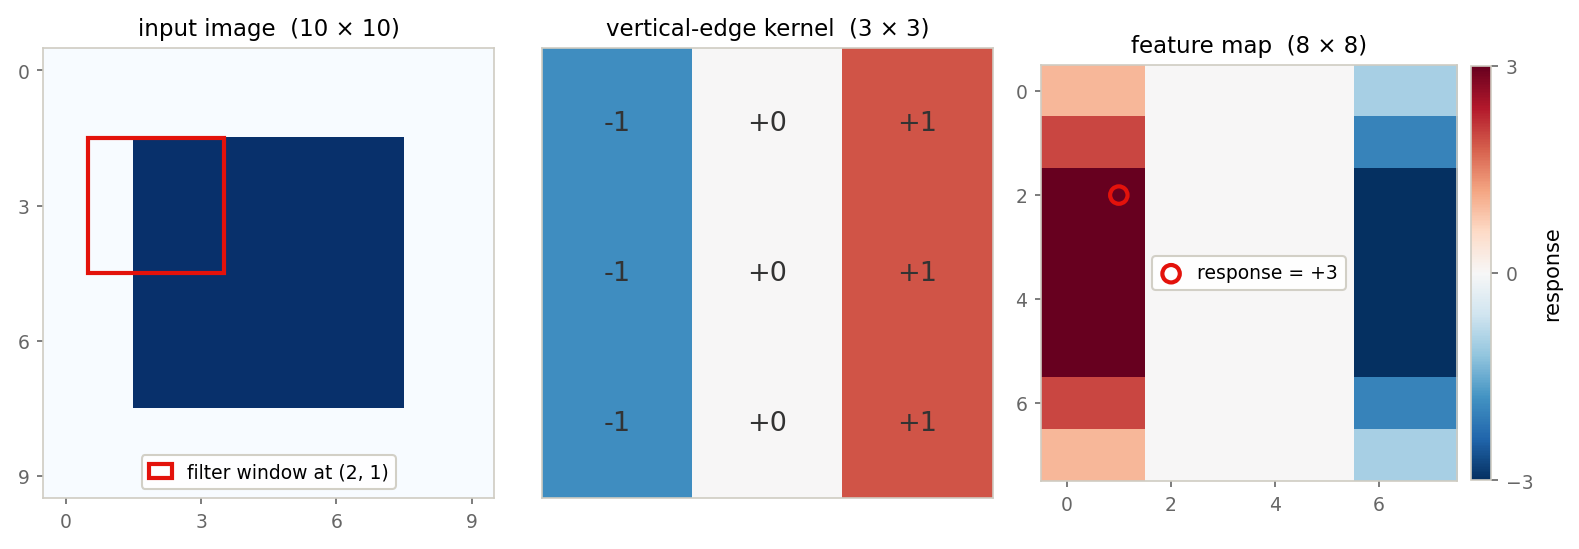
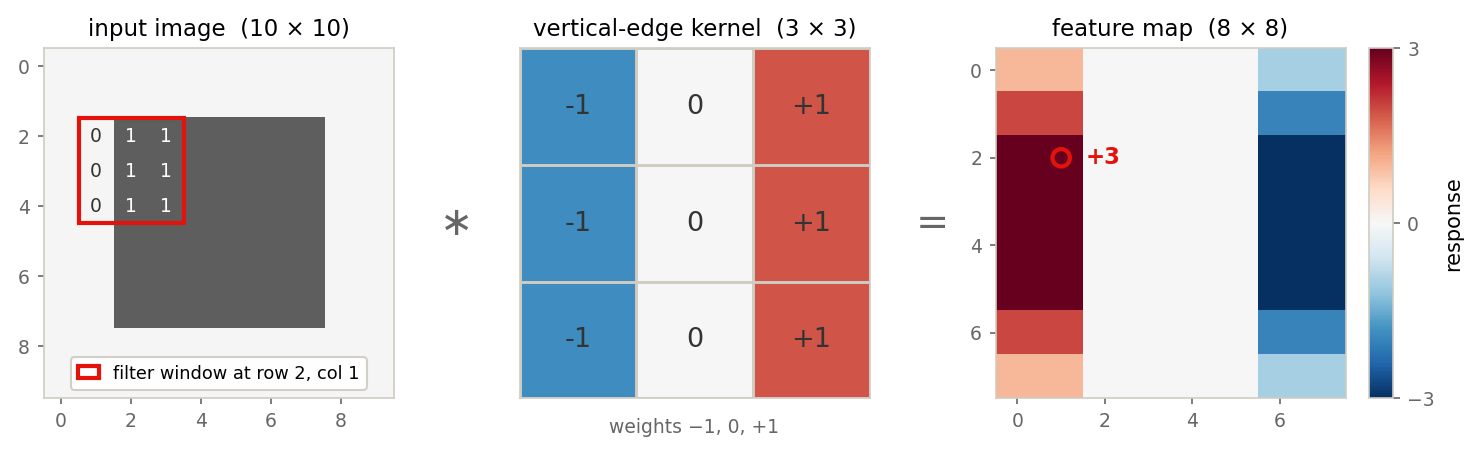
CNN page: fix the hero's color logic, show the arithmetic, match the book
The hero used Blues for the input and RdBu_r for the kernel and feature
map, so dark navy meant "pixel is on" in panel 1 and "-3" in panel 3, and
blue meant negative in two panels but positive in the other. The input is
now gray, leaving blue to mean one thing throughout.

The figure also asserted its own answer. It showed the window, the kernel
and the +3, but never the multiply-and-sum between them. The nine values
under the window are now printed in their cells, and an asterisk and an
equals sign join the panels so the row reads as the equation stated in
the defbox above it.

Three further repairs to the figure: the colorbar was carved out of the
feature map, leaving the result panel 7.6% smaller than the other two in
both directions -- it now gets its own axes at the feature map's exact
height, and all three panels measure 0.2083 x 0.5426; the kernel had no
cell borders, so a panel titled "3 x 3" read as three vertical bars; and
its weights printed as "+0", which is not how zero is written. The kernel
also carries its scale now, since it shares a colormap with the feature
map at a different range and only the feature map has a colorbar. Tick
strides on the two images are aligned, and the live cell's titles use the
same multiplication sign as the hero.

Prose, three items. The defbox stated the operation as cross-correlation
without saying so, where main_v3_32.tex flags it three times -- in the
prose, in the definition box, and in an exercise. It also wrote the
[…]

diff --git a/tools/make_ch10_01_figure.py b/tools/make_ch10_01_figure.py
@@ -1,9 +1,16 @@
 """Hero figure for the Chapter 10 companion page — treatment B, per FIGURE_SPEC.md.
 
-Input, kernel, feature map: the whole convolution in one row. Generated from the
-page's own computation — the same 10x10 square, the same 3x3 vertical-edge kernel,
-and the same from-scratch `conv2d` the live {pyodide}/{webr} cell runs, so what the
-reader executes reproduces this figure exactly.
+Input, kernel, feature map: the whole convolution in one row, read as the equation
+the defbox states above it. Generated from the page's own computation — the same
+10x10 square, the same 3x3 vertical-edge kernel, and the same from-scratch `conv2d`
+the live {pyodide}/{webr} cell runs, so what the reader executes reproduces this
+figure exactly.
+
+Two encoding rules this figure keeps, because the eye has to track values across
+three panels:
+  * the input is GRAY (sequential), so blue is free to mean "negative" everywhere;
+  * the highlighted window carries its nine values, so the response is derived on
+    the page rather than asserted.
 """
 
 import sys
@@ -49,42 +56,61 @@ print("patch at (2,1):\n", patch)
 print("patch . kernel =", np.sum(patch * kernel), "= feature_map[2,1] =", feature_map[si, sj])
 print("column means of |response|:", np.round(np.abs(feature_map).mean(axis=0), 3))
 
-fig, (axI, axK, axF) = plt.subplots(1, 3, figsize=(10.6, 3.7))
+
+def weight_label(v):
+    """Zero is neither positive nor negative: '+1', '0', '-1'."""
+    return f"{v:+.0f}" if v else "0"
+
+
+fig = plt.figure(figsize=(11.2, 4.3))
+gs = fig.add_gridspec(1, 3, wspace=0.36)
+axI, axK, axF = (fig.add_subplot(gs[0, k]) for k in range(3))
 
 # --- input -------------------------------------------------------------------
-axI.imshow(image, cmap="Blues", vmin=0, vmax=1)
-axI.add_patch(Rectangle((sj - 0.5, si - 0.5), 3, 3, fill=False,
-                        edgecolor=mt.RED, lw=2.0, label="filter window at (2, 1)"))
+# Gray, not Blues: in the other two panels blue means negative, and the same ink
+# cannot also mean "pixel is on".
+# vmin/vmax are stretched past the data range so that 1 lands on a mid-dark gray
+# rather than pure black, and 0 on a pale field rather than paper white.
+axI.imshow(image, cmap="Greys", vmin=-0.13, vmax=1.48, interpolation="nearest")
+axI.add_patch(Rectangle((sj - 0.5, si - 0.5), 3, 3, fill=False, edgecolor=mt.RED,
+                        lw=2.0, label="filter window at row 2, col 1", zorder=4))
+for i in range(si, si + 3):                 # the nine numbers actually multiplied
+    for j in range(sj, sj + 3):
+        axI.text(j, i, f"{image[i, j]:.0f}", ha="center", va="center", fontsize=9,
+                 color="white" if image[i, j] > 0.5 else "#333333", zorder=5)
 axI.set_title("input image  (10 × 10)", fontsize=11)
-axI.set_xticks(range(0, 10, 3))
-axI.set_yticks(range(0, 10, 3))
+axI.set_xticks(range(0, 10, 2))
+axI.set_yticks(range(0, 10, 2))
 axI.legend(loc="lower center", frameon=True, facecolor="white", framealpha=0.92,
-           edgecolor=SPINE, fontsize=9, handlelength=1.2)
+           edgecolor=SPINE, fontsize=8.5, handlelength=1.2)
 
 # --- kernel ------------------------------------------------------------------
-axK.imshow(kernel, cmap="RdBu_r", vmin=-1.6, vmax=1.6)
+axK.imshow(kernel, cmap="RdBu_r", vmin=-1.6, vmax=1.6, interpolation="nearest")
+# Cell borders on the minor ticks, so the panel reads as a 3x3 and not three bars.
+axK.set_xticks(np.arange(-0.5, 3, 1), minor=True)
+axK.set_yticks(np.arange(-0.5, 3, 1), minor=True)
+axK.grid(which="minor", color=SPINE, lw=1.4)   # visible on the pale center column too
+axK.tick_params(which="minor", length=0)
 for i in range(3):
     for j in range(3):
-        axK.text(j, i, f"{kernel[i, j]:+.0f}", ha="center", va="center",
+        axK.text(j, i, weight_label(kernel[i, j]), ha="center", va="center",
                  fontsize=13, color="#333333")
 axK.set_title("vertical-edge kernel  (3 × 3)", fontsize=11)
+# Say the scale: these are weights on their own scale, not responses on the colorbar.
+axK.set_xlabel("weights −1, 0, +1", fontsize=9, color="#666666", labelpad=6)
 axK.set_xticks([])
 axK.set_yticks([])
 
 # --- feature map -------------------------------------------------------------
-im = axF.imshow(feature_map, cmap="RdBu_r", vmin=-3, vmax=3)
-axF.scatter([sj], [si], s=70, facecolors="none", edgecolors=mt.RED, linewidths=2.0,
-            label=f"response = {feature_map[si, sj]:+.0f}")
+im = axF.imshow(feature_map, cmap="RdBu_r", vmin=-3, vmax=3, interpolation="nearest")
+axF.scatter([sj], [si], s=70, facecolors="none", edgecolors=mt.RED, linewidths=2.0)
+# Annotated inline rather than in a legend box: the flat zero band through the
+# middle is half the map's story and should not be sat on.
+axF.annotate(f"{feature_map[si, sj]:+.0f}", xy=(sj + 0.55, si), fontsize=11,
+             fontweight="bold", color=mt.RED, ha="left", va="center")
 axF.set_title("feature map  (8 × 8)", fontsize=11)
 axF.set_xticks(range(0, 8, 2))
 axF.set_yticks(range(0, 8, 2))
-axF.legend(loc="center", frameon=True, facecolor="white", framealpha=0.92,
-           edgecolor=SPINE, fontsize=9, handlelength=1.2)
-cb = fig.colorbar(im, ax=axF, fraction=0.046, pad=0.03)
-cb.set_label("response", fontsize=10)
-cb.set_ticks([-3, 0, 3])
-cb.ax.tick_params(labelsize=9, colors="#666666")
-cb.outline.set_edgecolor(SPINE)
 
 for ax in (axI, axK, axF):
     for s in ax.spines.values():
@@ -92,9 +118,31 @@ for ax in (axI, axK, axF):
         s.set_color(SPINE)
     ax.tick_params(colors="#666666", labelsize=9, length=3)
 
-fig.tight_layout()
+# Positions are only final once aspect='equal' has been applied, so draw first.
+# The colorbar then gets its own axes at exactly the feature map's height, instead
+# of being carved out of it — otherwise the result panel is the smallest of the three.
+fig.canvas.draw()
+pI, pK, pF = (ax.get_position() for ax in (axI, axK, axF))
+
+cax = fig.add_axes([pF.x1 + 0.014, pF.y0, 0.014, pF.height])
+cb = fig.colorbar(im, cax=cax)
+cb.set_label("response", fontsize=10)
+cb.set_ticks([-3, 0, 3])
+cb.ax.tick_params(labelsize=9, colors="#666666")
+cb.outline.set_edgecolor(SPINE)
+
+# Read the row as the equation in the defbox above it.
+y_mid = (pI.y0 + pI.y1) / 2
+fig.text((pI.x1 + pK.x0) / 2, y_mid, "∗", ha="center", va="center",
+         fontsize=19, color="#666666")
+fig.text((pK.x1 + pF.x0) / 2, y_mid, "=", ha="center", va="center",
+         fontsize=19, color="#666666")
 
 out = ("/Users/gregorywheeler/Dropbox/A_COURSES/Machine Learning I/Lecture NOTES/"
        "MLone book/companion-site/figures/ch10_01_convnets.png")
 fig.savefig(out, dpi=150, bbox_inches="tight", facecolor="white", pad_inches=0.12)
 print("saved:", out)
+
+for name, ax in zip(("input", "kernel", "featmap"), (axI, axK, axF)):
+    bb = ax.get_position()
+    print(f"  panel {name:8} width={bb.width:.4f} height={bb.height:.4f}")
